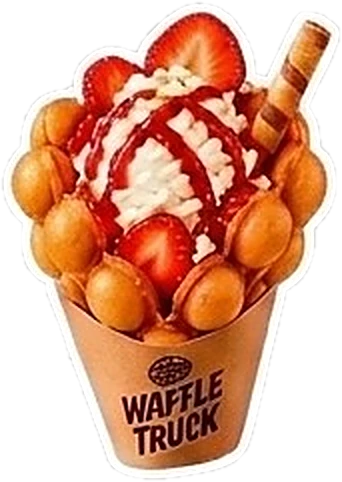
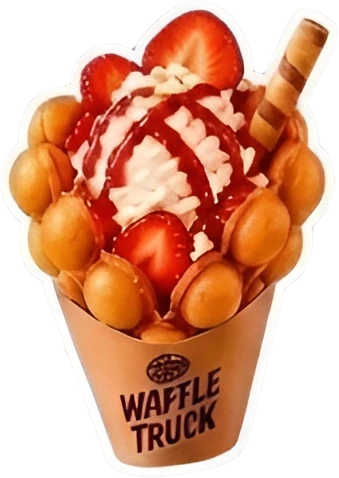
Demo 2: new churros bucket photo, stickers from AI-upscaled sheet

diff --git a/02-golden-crunch/index.html b/02-golden-crunch/index.html
@@ -182,7 +182,7 @@
     <!-- LIVRAISON : Uber Eats link only, no Uber prices (KOS, 23 Nov 2026) -->
     <section id="livraison" class="livraison" aria-labelledby="liv-h">
       <div class="liv-card">
-        <img src="/img/cut/churros-cup.webp" alt="" class="liv-art" loading="lazy" width="427" height="571">
+        <img src="/img/cut/churros-cup.webp" alt="" class="liv-art" loading="lazy" width="623" height="720">
         <div class="liv-txt">
           <p class="eyebrow">Livraison</p>
           <h2 id="liv-h" class="h2">Livré chez toi</h2>

diff --git a/tools/build_stickers.py b/tools/build_stickers.py
@@ -2,7 +2,7 @@
 white sticker border). KOS: keep the white border. One transparent WebP per item, in demos/public/img/cut/sticker/.
 
 Run from sites/waffle Truck:  py demos/tools/build_stickers.py
-Source kept in images/2026-11-27-stickers/sheet.jpg. Previews in demos/_qa/stickers-*.png.
+Source kept in images/2026-11-27-stickers/sheet.jpg (original) and sheet-ai-x2.jpg (used). Previews in demos/_qa/stickers-*.png.
 The old cut-outs (img/cut/*.webp) are not touched: Demos 01/03 and the menu TVs still use them.
 """
 from pathlib import Path
@@ -22,10 +22,13 @@ SEEDS = {
     "gaufre-fraise": (125, 870), "bt-lacte": (295, 890), "bt-fruits-rouges": (385, 890),
     "bt-mangue": (478, 890), "bt-violet": (572, 890), "frites-box": (700, 850), "frappe-cup": (850, 900),
 }
-SCALE = 2
+SCALE = 1   # the AI sheet is already 2x
 TEAS = ["bt-lacte", "bt-fruits-rouges", "bt-mangue", "bt-violet"]
 
-im = Image.open("images/2026-11-27-stickers/sheet.jpg").convert("RGB")
+# AI upscale x2 of the sheet (Pixelcut, free tier: 4x needs Pro), 2048 x 2048: much less blur than our own resize
+im = Image.open("images/2026-11-27-stickers/sheet-ai-x2.jpg").convert("RGB")
+F = im.width // 1024           # seeds are in 1024-px sheet pixels
+SEEDS = {k: (x * F, y * F) for k, (x, y) in SEEDS.items()}
 a = np.asarray(im).astype(int)
 mx, mn = a.max(2), a.min(2)
 # checker = black (~0) and dark grey (~83) squares, neutral. The white border closes every sticker.
@@ -33,32 +36,32 @@ cand = (mx <= 110) & ((mx - mn) <= 12)
 lab, _ = ndi.label(cand)
 border = np.unique(np.concatenate([lab[0], lab[-1], lab[:, 0], lab[:, -1]]))
 fg = ~np.isin(lab, border[border > 0])
-fg = ndi.binary_opening(fg, iterations=2)          # checker seams
+fg = ndi.binary_opening(fg, iterations=2 * F)          # checker seams
 fg = ndi.binary_fill_holes(fg)
 
 # stickers that touch: split them by eroding, take the part under the seed, grow it back inside fg
-core = ndi.binary_erosion(fg, iterations=4)
+core = ndi.binary_erosion(fg, iterations=4 * F)
 clab, _ = ndi.label(core)
-big = im.resize((im.width * SCALE, im.height * SCALE), Image.LANCZOS).filter(ImageFilter.UnsharpMask(radius=2, percent=60, threshold=2))
+big = im if SCALE == 1 else im.resize((im.width * SCALE, im.height * SCALE), Image.LANCZOS)
 for name, (x, y) in SEEDS.items():
     k = clab[y, x]
     if not k:
         raise SystemExit(f"{name}: seed is not inside a sticker")
-    part = ndi.binary_dilation(clab == k, iterations=5) & fg
+    part = ndi.binary_dilation(clab == k, iterations=5 * F) & fg
     if name in TEAS:
         # the 4 teas touch: cut the joined block at the narrowest column between this tea and its neighbours
         cols = part.sum(0)
         i = TEAS.index(name)
         xs = [SEEDS[t][0] for t in TEAS]
         def neck(x0, x1):
-            lo, hi = (x0 + x1) // 2 - 25, (x0 + x1) // 2 + 25
+            lo, hi = (x0 + x1) // 2 - 25 * F, (x0 + x1) // 2 + 25 * F
             return lo + int(np.argmin(cols[lo:hi]))
         left = neck(xs[i - 1], xs[i]) if i else 0
         right = neck(xs[i], xs[i + 1]) if i < len(TEAS) - 1 else part.shape[1]
         part[:, :left] = False
         part[:, right:] = False
     part = ndi.binary_fill_holes(part)
-    part = ndi.binary_erosion(part, iterations=1)  # drop the dark fringe just outside the white border
+    part = ndi.binary_erosion(part, iterations=F)  # drop the dark fringe just outside the white border
     mask = Image.fromarray((part * 255).astype(np.uint8)).resize(big.size, Image.BICUBIC).filter(ImageFilter.GaussianBlur(1.2))
     out = big.copy()
     out.putalpha(mask)

diff --git a/tools/build_churros_bucket.py b/tools/build_churros_bucket.py
@@ -1,0 +1,36 @@
+"""Churros bucket photo sent by KOS on 27 Nov 2026 (1024 x 1024, light checkerboard baked into the JPG)
+-> transparent cut-out for the "Livré chez toi" card. Replaces the small, soft churros cup of 26 Nov.
+
+Run from sites/waffle Truck:  py demos/tools/build_churros_bucket.py
+Source kept in images/2026-11-27-churros/churros-bucket.jpg. Output: demos/public/img/cut/churros-cup.webp
+"""
+import numpy as np
+from PIL import Image, ImageFilter
+from scipy import ndimage as ndi
+
+im = Image.open("images/2026-11-27-churros/churros-bucket.jpg").convert("RGB")
+a = np.asarray(im).astype(int)
+mx, mn = a.max(2), a.min(2)
+# checker squares: neutral ~226 and ~253 at the top, ~196 and ~254 lower down (plus the JPEG blur between them)
+checker = ((mx - mn) <= 5) & (mx >= 186)
+lab, _ = ndi.label(checker)
+border = np.unique(np.concatenate([lab[0], lab[-1], lab[:, 0], lab[:, -1]]))
+fg = ~np.isin(lab, border[border > 0])
+fg = ndi.binary_opening(fg, iterations=3)          # thin checker seams
+lab2, n2 = ndi.label(fg)
+sizes = ndi.sum(fg, lab2, range(1, n2 + 1))
+fg = np.isin(lab2, [i + 1 for i, s in enumerate(sizes) if s >= fg.size * 0.005])   # bucket, sauce pot, chocolate
+fg = ndi.binary_fill_holes(fg)
+fg = ndi.binary_erosion(fg, iterations=2)          # light fringe
+
+mask = Image.fromarray((fg * 255).astype(np.uint8)).filter(ImageFilter.GaussianBlur(1.0))
+out = im.copy()
+out.putalpha(mask)
+out = out.crop(out.getbbox())
+out.thumbnail((720, 720), Image.LANCZOS)
+out.save("demos/public/img/cut/churros-cup.webp", quality=90, method=6)
+print("saved", out.size)
+
+prev = Image.new("RGB", out.size, (58, 31, 18))
+prev.paste(out, (0, 0), out)
+prev.save("demos/_qa/churros-bucket-preview.png")
